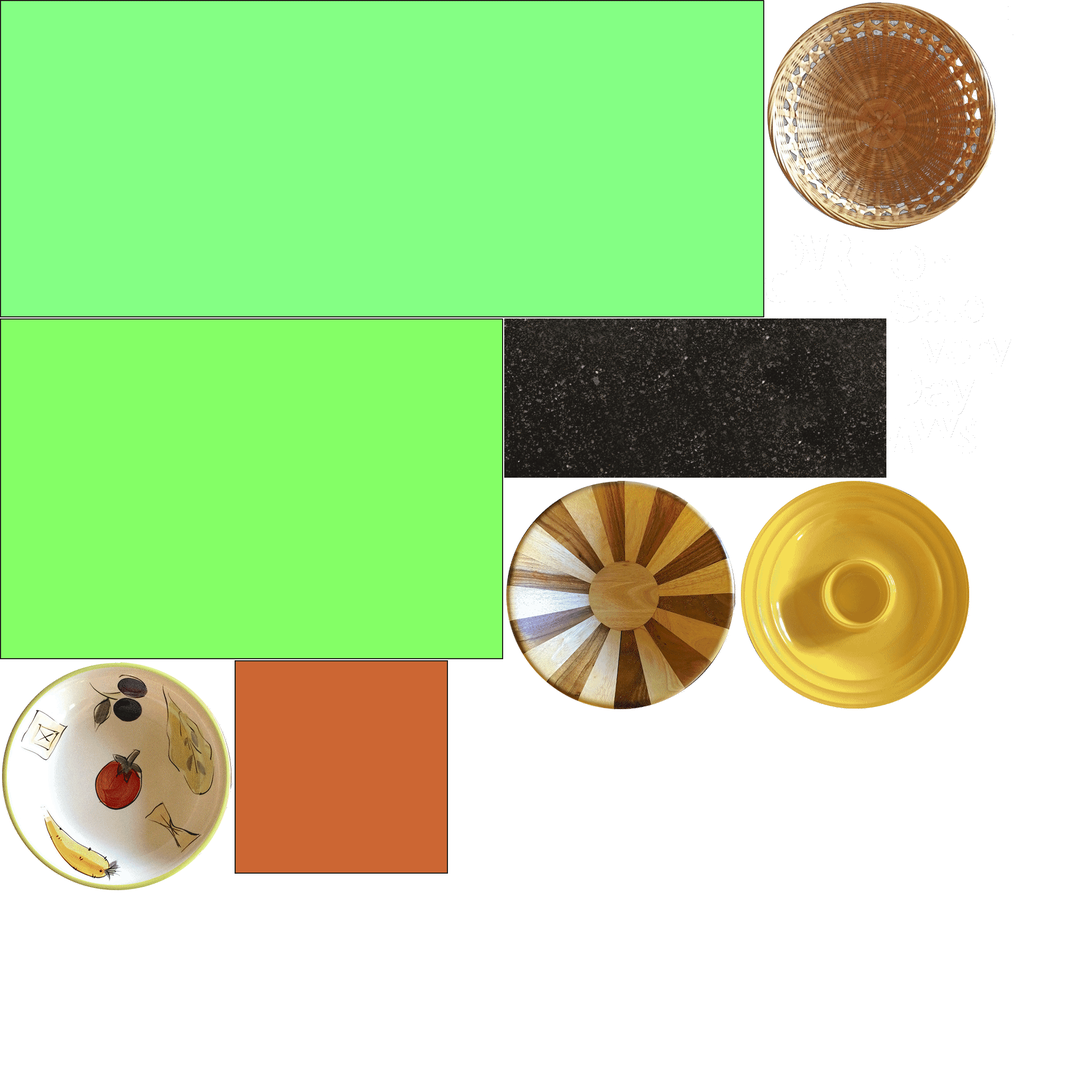
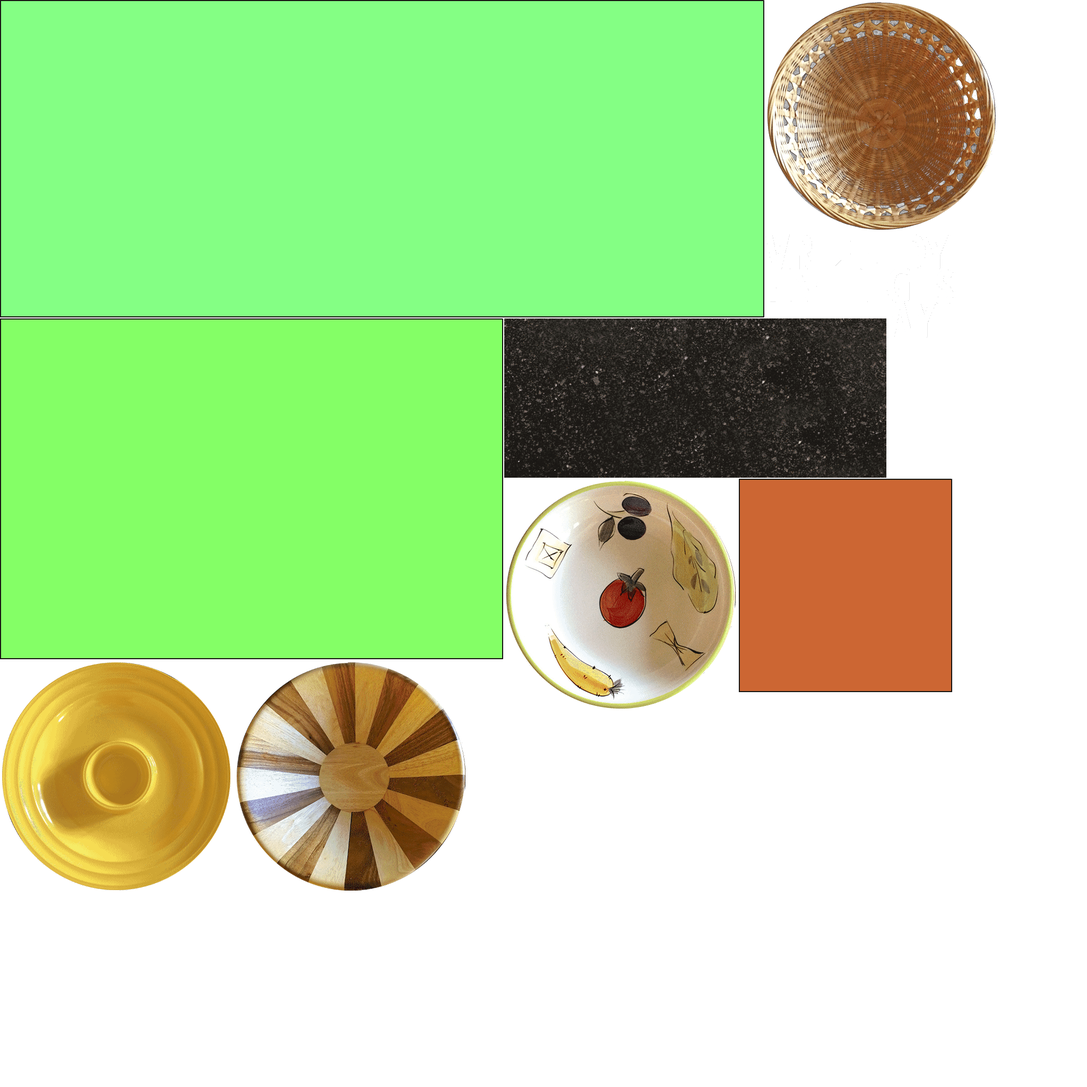
add call to action

diff --git a/everydaythings.js b/everydaythings.js
@@ -3,7 +3,7 @@
 var p; // shortcut to reference prototypes
 var lib={};var ss={};var img={};
 lib.ssMetadata = [
-		{name:"everydaythings_atlas_", frames: [[1442,0,440,440],[1672,442,266,344],[1672,788,47,64],[1807,788,31,65],[1563,569,2,1],[0,600,948,642],[0,0,1440,598],[442,1244,402,402],[1609,442,35,126],[1884,0,29,126],[1563,442,44,125],[1764,788,41,64],[1721,788,41,64],[1515,442,46,126],[1442,442,71,127],[0,1244,440,440],[950,600,720,300],[1392,902,440,440],[950,902,440,440]]}
+		{name:"everydaythings_atlas_", frames: [[1442,0,440,440],[1672,571,47,64],[1764,508,31,65],[1536,539,2,1],[0,600,948,642],[0,0,1440,598],[1392,902,402,402],[1536,442,48,95],[1586,442,35,126],[1623,442,29,126],[1490,442,44,125],[1745,442,41,64],[1721,571,41,64],[1442,442,46,126],[1672,442,71,127],[950,902,440,440],[950,600,720,300],[0,1244,440,440],[442,1244,440,440]]}
 ];
 
 
@@ -18,49 +18,49 @@ lib.ssMetadata = [
 
 
 
-(lib.CachedTexturedBitmap_1 = function() {
+(lib.CachedTexturedBitmap_10 = function() {
 	this.initialize(ss["everydaythings_atlas_"]);
 	this.gotoAndStop(1);
 }).prototype = p = new cjs.Sprite();
 
 
 
-(lib.CachedTexturedBitmap_10 = function() {
+(lib.CachedTexturedBitmap_11 = function() {
 	this.initialize(ss["everydaythings_atlas_"]);
 	this.gotoAndStop(2);
 }).prototype = p = new cjs.Sprite();
 
 
 
-(lib.CachedTexturedBitmap_11 = function() {
+(lib.CachedTexturedBitmap_12 = function() {
 	this.initialize(ss["everydaythings_atlas_"]);
 	this.gotoAndStop(3);
 }).prototype = p = new cjs.Sprite();
 
 
 
-(lib.CachedTexturedBitmap_12 = function() {
+(lib.CachedTexturedBitmap_13 = function() {
 	this.initialize(ss["everydaythings_atlas_"]);
 	this.gotoAndStop(4);
 }).prototype = p = new cjs.Sprite();
 
 
 
-(lib.CachedTexturedBitmap_13 = function() {
+(lib.CachedTexturedBitmap_14 = function() {
 	this.initialize(ss["everydaythings_atlas_"]);
 	this.gotoAndStop(5);
 }).prototype = p = new cjs.Sprite();
 
 
 
-(lib.CachedTexturedBitmap_14 = function() {
+(lib.CachedTexturedBitmap_15 = function() {
 	this.initialize(ss["everydaythings_atlas_"]);
 	this.gotoAndStop(6);
 }).prototype = p = new cjs.Sprite();
 
 
 
-(lib.CachedTexturedBitmap_2 = function() {
+(lib.CachedTexturedBitmap_16 = function() {
 	this.initialize(ss["everydaythings_atlas_"]);
 	this.gotoAndStop(7);
 }).prototype = p = new cjs.Sprite();
@@ -142,6 +142,20 @@ lib.ssMetadata = [
 	this.gotoAndStop(18);
 }).prototype = p = new cjs.Sprite();
 
+
+
+(lib.text_box = function(mode,startPosition,loop) {
+	this.initialize(mode,startPosition,loop,{});
+
+	// Layer_1
+	this.instance = new lib.CachedTexturedBitmap_15();
+	this.instance.parent = this;
+	this.instance.setTransform(-100.5,-100.5,0.5,0.5);
+
+	this.timeline.addTween(cjs.Tween.get(this.instance).wait(1));
+
+}).prototype = p = new cjs.MovieClip();
+p.nominalBounds = new cjs.Rectangle(-100.5,-100.5,201,201);
 
 
 (lib.products = function(mode,startPosition,loop) {
@@ -343,6 +357,22 @@ lib.ssMetadata = [
 p.nominalBounds = new cjs.Rectangle(-220,-220,441,314.6);
 
 
+(lib.headline = function(mode,startPosition,loop) {
+	this.initialize(mode,startPosition,loop,{});
+
+	// Layer_1
+	this.text = new cjs.Text("On\nSale\nEvery\nDay", "45px 'Impact'", "#FFFFFF");
+	this.text.lineHeight = 44;
+	this.text.lineWidth = 129;
+	this.text.parent = this;
+	this.text.setTransform(-64.5,-96);
+
+	this.timeline.addTween(cjs.Tween.get(this.text).wait(1));
+
+}).prototype = p = new cjs.MovieClip();
+p.nominalBounds = new cjs.Rectangle(-66.5,-98,133,196);
+
+
 (lib.everydaythings_logosvg = function(mode,startPosition,loop) {
 	this.initialize(mode,startPosition,loop,{});
 
@@ -393,6 +423,30 @@ p.nominalBounds = new cjs.Rectangle(-220,-220,441,314.6);
 p.nominalBounds = new cjs.Rectangle(0,0,157.5,63.6);
 
 
+(lib.cta = function(mode,startPosition,loop) {
+	this.initialize(mode,startPosition,loop,{});
+
+	// arrow
+	this.instance = new lib.CachedTexturedBitmap_16();
+	this.instance.parent = this;
+	this.instance.setTransform(45.05,-26.1,0.5,0.5);
+
+	this.timeline.addTween(cjs.Tween.get(this.instance).wait(1));
+
+	// text
+	this.text = new cjs.Text("SHOP\nNOW", "25px 'Impact'", "#FFFFFF");
+	this.text.textAlign = "right";
+	this.text.lineHeight = 25;
+	this.text.lineWidth = 74;
+	this.text.parent = this;
+	this.text.setTransform(37,-30.1);
+
+	this.timeline.addTween(cjs.Tween.get(this.text).wait(1));
+
+}).prototype = p = new cjs.MovieClip();
+p.nominalBounds = new cjs.Rectangle(-39,-32.1,108.1,64.2);
+
+
 (lib.button = function(mode,startPosition,loop) {
 	this.initialize(mode,startPosition,loop,{});
 
@@ -434,12 +488,12 @@ p.nominalBounds = new cjs.Rectangle(-220,-220,440,440);
 			window.open("http://www.google.com", "_blank");
 		}
 	}
-	this.frame_74 = function() {
+	this.frame_209 = function() {
 		this.stop();
 	}
 
 	// actions tween:
-	this.timeline.addTween(cjs.Tween.get(this).wait(46).call(this.frame_46).wait(28).call(this.frame_74).wait(6));
+	this.timeline.addTween(cjs.Tween.get(this).wait(46).call(this.frame_46).wait(163).call(this.frame_209).wait(6));
 
 	// Button
 	this.btn_main_link = new lib.button();
@@ -448,35 +502,43 @@ p.nominalBounds = new cjs.Rectangle(-220,-220,440,440);
 	this.btn_main_link.setTransform(360.5,150);
 	new cjs.ButtonHelper(this.btn_main_link, 0, 1, 2, false, new lib.button(), 3);
 
-	this.timeline.addTween(cjs.Tween.get(this.btn_main_link).wait(80));
+	this.timeline.addTween(cjs.Tween.get(this.btn_main_link).wait(215));
 
 	// Headline
-	this.instance = new lib.CachedTexturedBitmap_1();
+	this.instance = new lib.headline("synched",0);
 	this.instance.parent = this;
-	this.instance.setTransform(551,4.3,0.5,0.5);
+	this.instance.setTransform(645,-97.7);
 
-	this.timeline.addTween(cjs.Tween.get(this.instance).wait(80));
+	this.timeline.addTween(cjs.Tween.get(this.instance).wait(92).to({startPosition:0},0).to({y:102.3},20,cjs.Ease.get(1)).wait(103));
 
 	// Products
 	this.instance_1 = new lib.products();
 	this.instance_1.parent = this;
 	this.instance_1.setTransform(348,245);
 
-	this.timeline.addTween(cjs.Tween.get(this.instance_1).wait(80));
+	this.timeline.addTween(cjs.Tween.get(this.instance_1).wait(215));
+
+	// cta
+	this.instance_2 = new lib.cta("synched",0);
+	this.instance_2.parent = this;
+	this.instance_2.setTransform(464,242.95);
+	this.instance_2._off = true;
+
+	this.timeline.addTween(cjs.Tween.get(this.instance_2).wait(186).to({_off:false},0).to({x:624},19,cjs.Ease.get(1)).wait(10));
 
 	// Basket
-	this.instance_2 = new lib.basket_1("synched",0);
-	this.instance_2.parent = this;
-	this.instance_2.setTransform(-242.5,257.05,0.9999,0.9999,-135,0,0,-2.6,11.9);
+	this.instance_3 = new lib.basket_1("synched",0);
+	this.instance_3.parent = this;
+	this.instance_3.setTransform(-242.5,257.05,0.9999,0.9999,-135,0,0,-2.6,11.9);
 
-	this.timeline.addTween(cjs.Tween.get(this.instance_2).wait(1).to({regX:0,regY:0,rotation:-128.1581,x:-223.6926,y:262.3338},0).wait(1).to({rotation:-121.4939,x:-195.2399,y:261.0278},0).wait(1).to({rotation:-115.0074,x:-167.3967,y:259.7046},0).wait(1).to({rotation:-108.6986,x:-140.1704,y:258.3846},0).wait(1).to({rotation:-102.5676,x:-113.5706,y:257.086},0).wait(1).to({rotation:-96.6142,x:-87.6085,y:255.8244},0).wait(1).to({rotation:-90.8386,x:-62.2965,y:254.6128},0).wait(1).to({rotation:-85.2407,x:-37.6476,y:253.4619},0).wait(1).to({rotation:-79.8205,x:-13.6753,y:252.38},0).wait(1).to({rotation:-74.578,x:9.6067,y:251.3731},0).wait(1).to({rotation:-69.5132,x:32.1852,y:250.4453},0).wait(1).to({rotation:-64.6261,x:54.0473,y:249.5988},0).wait(1).to({rotation:-59.9167,x:75.1807,y:248.8343},0).wait(1).to({rotation:-55.3851,x:95.574,y:248.151},0).wait(1).to({scaleX:0.9998,scaleY:0.9998,rotation:-51.0312,x:115.2166,y:247.5468},0).wait(1).to({rotation:-46.8549,x:134.0989,y:247.0188},0).wait(1).to({rotation:-42.8564,x:152.212,y:246.5632},0).wait(1).to({rotation:-39.0356,x:169.5482,y:246.1755},0).wait(1).to({rotation:-35.3925,x:186.1009,y:245.8508},0).wait(1).to({rotation:-31.9271,x:201.864,y:245.584},0).wait(1).to({rotation:-28.6395,x:216.8326,y:245.3697},0).wait(1).to({rotation:-25.5295,x:231.0025,y:245.2023},0).wait(1).to({rotation:-22.5973,x:244.3702,y:245.0765},0).wait(1).to({rotation:-19.8427,x:256.933,y:244.9869},0).wait(1).to({rotation:-17.2659,x:268.6886,y:244.9283},0).wait(1).to({rotation:-14.8668,x:279.6354,y:244.8958},0).wait(1).to({rotation:-12.6454,x:289.7722,y:244.8848},0).wait(1).to({rotation:-10.6017,x:299.0981,y:244.8907},0).wait(1).to({rotation:-8.7357,x:307.6127,y:244.9097},0).wait(1).to({rotation:-7.0475,x:315.3158,y:244.938},0).wait(1).to({rotation:-5.5369,x:322.2071,y:244.9723},0).wait(1).to({rotation:-4.2041,x:328.2869,y:245.0095},0).wait(1).to({regX:-2.6,regY:12,rotation:-3.049,x:331.55,y:257.1},0).wait(1).to({regX:0,regY:0,scaleX:0.9999,scaleY:0.9999,rotation:-2.1173,x:337.9465,y:244.9615},0).wait(1).to({rotation:-1.3551,x:341.5841,y:244.9735},0).wait(1).to({rotation:-0.7622,x:344.4131,y:244.9842},0).wait(1).to({scaleX:1,scaleY:1,rotation:-0.3388,x:346.4336,y:244.9927},0).wait(1).to({rotation:-0.0847,x:347.6459,y:244.9981},0).wait(1).to({regX:-2.5,regY:12,rotation:0,x:345.5,y:257},0).wait(1).to({regX:0,regY:0,x:348,y:245},0).wait(1).to({startPosition:0},0).wait(1).to({startPosition:0},0).wait(1).to({startPosition:0},0).wait(1).to({startPosition:0},0).wait(1).to({startPosition:0},0).wait(1).to({startPosition:0},0).wait(1).to({startPosition:0},0).wait(1).to({startPosition:0},0).wait(1).to({startPosition:0},0).wait(1).to({startPosition:0},0).wait(1).to({startPosition:0},0).wait(1).to({startPosition:0},0).wait(1).to({startPosition:0},0).wait(1).to({startPosition:0},0).wait(1).to({startPosition:0},0).wait(1).to({startPosition:0},0).wait(1).to({startPosition:0},0).wait(1).to({startPosition:0},0).wait(1).to({startPosition:0},0).wait(1).to({startPosition:0},0).wait(1).to({startPosition:0},0).wait(1).to({startPosition:0},0).wait(1).to({startPosition:0},0).wait(1).to({startPosition:0},0).wait(1).to({startPosition:0},0).wait(1).to({startPosition:0},0).wait(1).to({startPosition:0},0).wait(1).to({startPosition:0},0).wait(1).to({startPosition:0},0).wait(1).to({startPosition:0},0).wait(1).to({startPosition:0},0).wait(1).to({startPosition:0},0).wait(1).to({startPosition:0},0).wait(1).to({regX:-2.5,regY:12,x:345.5,y:257},0).to({startPosition:0},1).wait(5));
+	this.timeline.addTween(cjs.Tween.get(this.instance_3).wait(1).to({regX:0,regY:0,rotation:-128.1581,x:-223.6926,y:262.3338},0).wait(1).to({rotation:-121.4939,x:-195.2399,y:261.0278},0).wait(1).to({rotation:-115.0074,x:-167.3967,y:259.7046},0).wait(1).to({rotation:-108.6986,x:-140.1704,y:258.3846},0).wait(1).to({rotation:-102.5676,x:-113.5706,y:257.086},0).wait(1).to({rotation:-96.6142,x:-87.6085,y:255.8244},0).wait(1).to({rotation:-90.8386,x:-62.2965,y:254.6128},0).wait(1).to({rotation:-85.2407,x:-37.6476,y:253.4619},0).wait(1).to({rotation:-79.8205,x:-13.6753,y:252.38},0).wait(1).to({rotation:-74.578,x:9.6067,y:251.3731},0).wait(1).to({rotation:-69.5132,x:32.1852,y:250.4453},0).wait(1).to({rotation:-64.6261,x:54.0473,y:249.5988},0).wait(1).to({rotation:-59.9167,x:75.1807,y:248.8343},0).wait(1).to({rotation:-55.3851,x:95.574,y:248.151},0).wait(1).to({scaleX:0.9998,scaleY:0.9998,rotation:-51.0312,x:115.2166,y:247.5468},0).wait(1).to({rotation:-46.8549,x:134.0989,y:247.0188},0).wait(1).to({rotation:-42.8564,x:152.212,y:246.5632},0).wait(1).to({rotation:-39.0356,x:169.5482,y:246.1755},0).wait(1).to({rotation:-35.3925,x:186.1009,y:245.8508},0).wait(1).to({rotation:-31.9271,x:201.864,y:245.584},0).wait(1).to({rotation:-28.6395,x:216.8326,y:245.3697},0).wait(1).to({rotation:-25.5295,x:231.0025,y:245.2023},0).wait(1).to({rotation:-22.5973,x:244.3702,y:245.0765},0).wait(1).to({rotation:-19.8427,x:256.933,y:244.9869},0).wait(1).to({rotation:-17.2659,x:268.6886,y:244.9283},0).wait(1).to({rotation:-14.8668,x:279.6354,y:244.8958},0).wait(1).to({rotation:-12.6454,x:289.7722,y:244.8848},0).wait(1).to({rotation:-10.6017,x:299.0981,y:244.8907},0).wait(1).to({rotation:-8.7357,x:307.6127,y:244.9097},0).wait(1).to({rotation:-7.0475,x:315.3158,y:244.938},0).wait(1).to({rotation:-5.5369,x:322.2071,y:244.9723},0).wait(1).to({rotation:-4.2041,x:328.2869,y:245.0095},0).wait(1).to({regX:-2.6,regY:12,rotation:-3.049,x:331.55,y:257.1},0).wait(1).to({regX:0,regY:0,scaleX:0.9999,scaleY:0.9999,rotation:-2.1173,x:337.9465,y:244.9615},0).wait(1).to({rotation:-1.3551,x:341.5841,y:244.9735},0).wait(1).to({rotation:-0.7622,x:344.4131,y:244.9842},0).wait(1).to({scaleX:1,scaleY:1,rotation:-0.3388,x:346.4336,y:244.9927},0).wait(1).to({rotation:-0.0847,x:347.6459,y:244.9981},0).wait(1).to({regX:-2.5,regY:12,rotation:0,x:345.5,y:257},0).wait(1).to({regX:0,regY:0,x:348,y:245},0).wait(1).to({startPosition:0},0).wait(1).to({startPosition:0},0).wait(1).to({startPosition:0},0).wait(1).to({startPosition:0},0).wait(1).to({startPosition:0},0).wait(1).to({startPosition:0},0).wait(1).to({startPosition:0},0).wait(1).to({startPosition:0},0).wait(1).to({startPosition:0},0).wait(1).to({startPosition:0},0).wait(1).to({startPosition:0},0).wait(1).to({startPosition:0},0).wait(1).to({startPosition:0},0).wait(1).to({startPosition:0},0).wait(1).to({startPosition:0},0).wait(1).to({startPosition:0},0).wait(1).to({startPosition:0},0).wait(1).to({startPosition:0},0).wait(1).to({startPosition:0},0).wait(1).to({startPosition:0},0).wait(1).to({startPosition:0},0).wait(1).to({startPosition:0},0).wait(1).to({startPosition:0},0).wait(1).to({startPosition:0},0).wait(1).to({startPosition:0},0).wait(1).to({startPosition:0},0).wait(1).to({startPosition:0},0).wait(1).to({startPosition:0},0).wait(1).to({startPosition:0},0).wait(1).to({startPosition:0},0).wait(1).to({startPosition:0},0).wait(1).to({startPosition:0},0).wait(1).to({startPosition:0},0).wait(1).to({startPosition:0},0).wait(1).to({startPosition:0},0).wait(1).to({startPosition:0},0).wait(1).to({startPosition:0},0).wait(1).to({startPosition:0},0).wait(1).to({startPosition:0},0).wait(1).to({startPosition:0},0).wait(1).to({startPosition:0},0).wait(1).to({startPosition:0},0).wait(1).to({startPosition:0},0).wait(1).to({startPosition:0},0).wait(1).to({startPosition:0},0).wait(1).to({startPosition:0},0).wait(1).to({startPosition:0},0).wait(1).to({startPosition:0},0).wait(1).to({startPosition:0},0).wait(1).to({startPosition:0},0).wait(1).to({startPosition:0},0).wait(1).to({startPosition:0},0).wait(1).to({startPosition:0},0).wait(1).to({startPosition:0},0).wait(1).to({startPosition:0},0).wait(1).to({startPosition:0},0).wait(1).to({startPosition:0},0).wait(1).to({startPosition:0},0).wait(1).to({startPosition:0},0).wait(1).to({startPosition:0},0).wait(1).to({startPosition:0},0).wait(1).to({startPosition:0},0).wait(1).to({startPosition:0},0).wait(1).to({startPosition:0},0).wait(1).to({startPosition:0},0).wait(1).to({startPosition:0},0).wait(1).to({startPosition:0},0).wait(1).to({startPosition:0},0).wait(1).to({startPosition:0},0).wait(1).to({startPosition:0},0).wait(1).to({startPosition:0},0).wait(1).to({startPosition:0},0).wait(1).to({startPosition:0},0).wait(1).to({regX:-2.5,regY:12,x:345.5,y:257},0).to({startPosition:0},1).wait(100));
 
 	// Text_Box
-	this.instance_3 = new lib.CachedTexturedBitmap_2();
-	this.instance_3.parent = this;
-	this.instance_3.setTransform(519.5,-0.5,0.5,0.5);
+	this.instance_4 = new lib.text_box("synched",0);
+	this.instance_4.parent = this;
+	this.instance_4.setTransform(830,100);
 
-	this.timeline.addTween(cjs.Tween.get(this.instance_3).wait(80));
+	this.timeline.addTween(cjs.Tween.get(this.instance_4).wait(27).to({startPosition:0},0).to({x:620},20,cjs.Ease.get(1)).wait(168));
 
 	// logo_mask (mask)
 	var mask = new cjs.Shape();
@@ -561,27 +623,162 @@ p.nominalBounds = new cjs.Rectangle(-220,-220,440,440);
[138 lines of base64/hex data omitted]
 
-	this.timeline.addTween(cjs.Tween.get(mask).to({graphics:mask_graphics_0,x:-325.7501,y:255.7251}).wait(1).to({graphics:mask_graphics_1,x:-295.7,y:254.7252}).wait(1).to({graphics:mask_graphics_2,x:-266.4,y:253.7253}).wait(1).to({graphics:mask_graphics_3,x:-237.8997,y:252.7749}).wait(1).to({graphics:mask_graphics_4,x:-210.15,y:251.8254}).wait(1).to({graphics:mask_graphics_5,x:-183.2,y:250.9254}).wait(1).to({graphics:mask_graphics_6,x:-157.05,y:250.0254}).wait(1).to({graphics:mask_graphics_7,x:-131.6502,y:249.1749}).wait(1).to({graphics:mask_graphics_8,x:-107.0501,y:248.3748}).wait(1).to({graphics:mask_graphics_9,x:-83.2001,y:247.5747}).wait(1).to({graphics:mask_graphics_10,x:-60.2001,y:246.7746}).wait(1).to({graphics:mask_graphics_11,x:-37.8999,y:246.0249}).wait(1).to({graphics:mask_graphics_12,x:-16.4502,y:245.3247}).wait(1).to({graphics:mask_graphics_13,x:4.2498,y:244.6254}).wait(1).to({graphics:mask_graphics_14,x:24.1497,y:243.9252}).wait(1).to({graphics:mask_graphics_15,x:43.2999,y:243.2754}).wait(1).to({graphics:mask_graphics_16,x:61.65,y:242.6751}).wait(1).to({graphics:mask_graphics_17,x:79.2499,y:242.0748}).wait(1).to({graphics:mask_graphics_18,x:96.0003,y:241.5249}).wait(1).to({graphics:mask_graphics_19,x:112.05,y:240.975}).wait(1).to({graphics:mask_graphics_20,x:127.2501,y:240.4746}).wait(1).to({graphics:mask_graphics_21,x:141.7,y:239.9751}).wait(1).to({graphics:mask_graphics_22,x:155.4003,y:239.5251}).wait(1).to({graphics:mask_graphics_23,x:168.25,y:239.0751}).wait(1).to({graphics:mask_graphics_24,x:180.4,y:238.6746}).wait(1).to({graphics:mask_graphics_25,x:191.7,y:238.3254}).wait(1).to({graphics:mask_graphics_26,x:202.2498,y:237.9249}).wait(1).to({graphics:mask_graphics_27,x:211.9999,y:237.6252}).wait(1).to({graphics:mask_graphics_28,x:220.9999,y:237.3246}).wait(1).to({graphics:mask_graphics_29,x:229.2003,y:237.0249}).wait(1).to({graphics:mask_graphics_30,x:236.6001,y:236.7747}).wait(1).to({graphics:mask_graphics_31,x:243.2502,y:236.5749}).wait(1).to({graphics:mask_graphics_32,x:249.1002,y:236.3751}).wait(1).to({graphics:mask_graphics_33,x:254.2,y:236.1753}).wait(1).to({graphics:mask_graphics_34,x:258.4998,y:236.0754}).wait(1).to({graphics:mask_graphics_35,x:261.9999,y:235.9251}).wait(1).to({graphics:mask_graphics_36,x:264.7503,y:235.8252}).wait(1).to({graphics:mask_graphics_37,x:266.6997,y:235.7748}).wait(1).to({graphics:mask_graphics_38,x:267.8499,y:235.7253}).wait(1).to({graphics:mask_graphics_39,x:268.2499,y:235.7253}).wait(1).to({graphics:mask_graphics_40,x:268.2499,y:235.7253}).wait(1).to({graphics:mask_graphics_41,x:268.2499,y:235.7253}).wait(1).to({graphics:mask_graphics_42,x:268.2499,y:235.7253}).wait(1).to({graphics:mask_graphics_43,x:268.2499,y:235.7253}).wait(1).to({graphics:mask_graphics_44,x:268.2499,y:235.7253}).wait(1).to({graphics:mask_graphics_45,x:268.2499,y:235.7253}).wait(1).to({graphics:mask_graphics_46,x:268.2499,y:235.7253}).wait(1).to({graphics:mask_graphics_47,x:268.2499,y:235.7253}).wait(1).to({graphics:mask_graphics_48,x:268.2499,y:235.7253}).wait(1).to({graphics:mask_graphics_49,x:268.2499,y:235.7253}).wait(1).to({graphics:mask_graphics_50,x:268.2499,y:235.7253}).wait(1).to({graphics:mask_graphics_51,x:268.2499,y:235.7253}).wait(1).to({graphics:mask_graphics_52,x:268.2499,y:235.7253}).wait(1).to({graphics:mask_graphics_53,x:268.2499,y:235.7253}).wait(1).to({graphics:mask_graphics_54,x:268.2499,y:235.7253}).wait(1).to({graphics:mask_graphics_55,x:268.2499,y:235.7253}).wait(1).to({graphics:mask_graphics_56,x:268.2499,y:235.7253}).wait(1).to({graphics:mask_graphics_57,x:268.2499,y:235.7253}).wait(1).to({graphics:mask_graphics_58,x:268.2499,y:235.7253}).wait(1).to({graphics:mask_graphics_59,x:268.2499,y:235.7253}).wait(1).to({graphics:mask_graphics_60,x:268.2499,y:235.7253}).wait(1).to({graphics:mask_graphics_61,x:268.2499,y:235.7253}).wait(1).to({graphics:mask_graphics_62,x:268.2499,y:235.7253}).wait(1).to({graphics:mask_graphics_63,x:268.2499,y:235.7253}).wait(1).to({graphics:mask_graphics_64,x:268.2499,y:235.7253}).wait(1).to({graphics:mask_graphics_65,x:268.2499,y:235.7253}).wait(1).to({graphics:mask_graphics_66,x:268.2499,y:235.7253}).wait(1).to({graphics:mask_graphics_67,x:268.2499,y:235.7253}).wait(1).to({graphics:mask_graphics_68,x:268.2499,y:235.7253}).wait(1).to({graphics:mask_graphics_69,x:268.2499,y:235.7253}).wait(1).to({graphics:mask_graphics_70,x:268.2499,y:235.7253}).wait(1).to({graphics:mask_graphics_71,x:268.2499,y:235.7253}).wait(1).to({graphics:mask_graphics_72,x:268.2499,y:235.7253}).wait(1).to({graphics:mask_graphics_73,x:268.2499,y:235.7253}).wait(1).to({graphics:mask_graphics_74,x:268.2499,y:235.7253}).wait(1).to({graphics:mask_graphics_75,x:268.2499,y:235.7253}).wait(1).to({graphics:mask_graphics_76,x:268.2499,y:235.7253}).wait(1).to({graphics:mask_graphics_77,x:268.2499,y:235.7253}).wait(1).to({graphics:mask_graphics_78,x:268.2499,y:235.7253}).wait(1).to({graphics:mask_graphics_79,x:268.2499,y:235.7253}).wait(1));
+	this.timeline.addTween(cjs.Tween.get(mask).to({graphics:mask_graphics_0,x:-325.7501,y:255.7251}).wait(1).to({graphics:mask_graphics_1,x:-295.7,y:254.7252}).wait(1).to({graphics:mask_graphics_2,x:-266.4,y:253.7253}).wait(1).to({graphics:mask_graphics_3,x:-237.8997,y:252.7749}).wait(1).to({graphics:mask_graphics_4,x:-210.15,y:251.8254}).wait(1).to({graphics:mask_graphics_5,x:-183.2,y:250.9254}).wait(1).to({graphics:mask_graphics_6,x:-157.05,y:250.0254}).wait(1).to({graphics:mask_graphics_7,x:-131.6502,y:249.1749}).wait(1).to({graphics:mask_graphics_8,x:-107.0501,y:248.3748}).wait(1).to({graphics:mask_graphics_9,x:-83.2001,y:247.5747}).wait(1).to({graphics:mask_graphics_10,x:-60.2001,y:246.7746}).wait(1).to({graphics:mask_graphics_11,x:-37.8999,y:246.0249}).wait(1).to({graphics:mask_graphics_12,x:-16.4502,y:245.3247}).wait(1).to({graphics:mask_graphics_13,x:4.2498,y:244.6254}).wait(1).to({graphics:mask_graphics_14,x:24.1497,y:243.9252}).wait(1).to({graphics:mask_graphics_15,x:43.2999,y:243.2754}).wait(1).to({graphics:mask_graphics_16,x:61.65,y:242.6751}).wait(1).to({graphics:mask_graphics_17,x:79.2499,y:242.0748}).wait(1).to({graphics:mask_graphics_18,x:96.0003,y:241.5249}).wait(1).to({graphics:mask_graphics_19,x:112.05,y:240.975}).wait(1).to({graphics:mask_graphics_20,x:127.2501,y:240.4746}).wait(1).to({graphics:mask_graphics_21,x:141.7,y:239.9751}).wait(1).to({graphics:mask_graphics_22,x:155.4003,y:239.5251}).wait(1).to({graphics:mask_graphics_23,x:168.25,y:239.0751}).wait(1).to({graphics:mask_graphics_24,x:180.4,y:238.6746}).wait(1).to({graphics:mask_graphics_25,x:191.7,y:238.3254}).wait(1).to({graphics:mask_graphics_26,x:202.2498,y:237.9249}).wait(1).to({graphics:mask_graphics_27,x:211.9999,y:237.6252}).wait(1).to({graphics:mask_graphics_28,x:220.9999,y:237.3246}).wait(1).to({graphics:mask_graphics_29,x:229.2003,y:237.0249}).wait(1).to({graphics:mask_graphics_30,x:236.6001,y:236.7747}).wait(1).to({graphics:mask_graphics_31,x:243.2502,y:236.5749}).wait(1).to({graphics:mask_graphics_32,x:249.1002,y:236.3751}).wait(1).to({graphics:mask_graphics_33,x:254.2,y:236.1753}).wait(1).to({graphics:mask_graphics_34,x:258.4998,y:236.0754}).wait(1).to({graphics:mask_graphics_35,x:261.9999,y:235.9251}).wait(1).to({graphics:mask_graphics_36,x:264.7503,y:235.8252}).wait(1).to({graphics:mask_graphics_37,x:266.6997,y:235.7748}).wait(1).to({graphics:mask_graphics_38,x:267.8499,y:235.7253}).wait(1).to({graphics:mask_graphics_39,x:268.2499,y:235.7253}).wait(1).to({graphics:mask_graphics_40,x:268.2499,y:235.7253}).wait(1).to({graphics:mask_graphics_41,x:268.2499,y:235.7253}).wait(1).to({graphics:mask_graphics_42,x:268.2499,y:235.7253}).wait(1).to({graphics:mask_graphics_43,x:268.2499,y:235.7253}).wait(1).to({graphics:mask_graphics_44,x:268.2499,y:235.7253}).wait(1).to({graphics:mask_graphics_45,x:268.2499,y:235.7253}).wait(1).to({graphics:mask_graphics_46,x:268.2499,y:235.7253}).wait(1).to({graphics:mask_graphics_47,x:268.2499,y:235.7253}).wait(1).to({graphics:mask_graphics_48,x:268.2499,y:235.7253}).wait(1).to({graphics:mask_graphics_49,x:268.2499,y:235.7253}).wait(1).to({graphics:mask_graphics_50,x:268.2499,y:235.7253}).wait(1).to({graphics:mask_graphics_51,x:268.2499,y:235.7253}).wait(1).to({graphics:mask_graphics_52,x:268.2499,y:235.7253}).wait(1).to({graphics:mask_graphics_53,x:268.2499,y:235.7253}).wait(1).to({graphics:mask_graphics_54,x:268.2499,y:235.7253}).wait(1).to({graphics:mask_graphics_55,x:268.2499,y:235.7253}).wait(1).to({graphics:mask_graphics_56,x:268.2499,y:235.7253}).wait(1).to({graphics:mask_graphics_57,x:268.2499,y:235.7253}).wait(1).to({graphics:mask_graphics_58,x:268.2499,y:235.7253}).wait(1).to({graphics:mask_graphics_59,x:268.2499,y:235.7253}).wait(1).to({graphics:mask_graphics_60,x:268.2499,y:235.7253}).wait(1).to({graphics:mask_graphics_61,x:268.2499,y:235.7253}).wait(1).to({graphics:mask_graphics_62,x:268.2499,y:235.7253}).wait(1).to({graphics:mask_graphics_63,x:268.2499,y:235.7253}).wait(1).to({graphics:mask_graphics_64,x:268.2499,y:235.7253}).wait(1).to({graphics:mask_graphics_65,x:268.2499,y:235.7253}).wait(1).to({graphics:mask_graphics_66,x:268.2499,y:235.7253}).wait(1).to({graphics:mask_graphics_67,x:268.2499,y:235.7253}).wait(1).to({graphics:mask_graphics_68,x:268.2499,y:235.7253}).wait(1).to({graphics:mask_graphics_69,x:268.2499,y:235.7253}).wait(1).to({graphics:mask_graphics_70,x:268.2499,y:235.7253}).wait(1).to({graphics:mask_graphics_71,x:268.2499,y:235.7253}).wait(1).to({graphics:mask_graphics_72,x:268.2499,y:235.7253}).wait(1).to({graphics:mask_graphics_73,x:268.2499,y:235.7253}).wait(1).to({graphics:mask_graphics_74,x:268.2499,y:235.7253}).wait(1).to({graphics:mask_graphics_75,x:268.2499,y:235.7253}).wait(1).to({graphics:mask_graphics_76,x:268.2499,y:235.7253}).wait(1).to({graphics:mask_graphics_77,x:268.2499,y:235.7253}).wait(1).to({graphics:mask_graphics_78,x:268.2499,y:235.7253}).wait(1).to({graphics:mask_graphics_79,x:268.2499,y:235.7253}).wait(1).to({graphics:mask_graphics_80,x:268.2499,y:235.7253}).wait(1).to({graphics:mask_graphics_81,x:268.2499,y:235.7253}).wait(1).to({graphics:mask_graphics_82,x:268.2499,y:235.7253}).wait(1).to({graphics:mask_graphics_83,x:268.2499,y:235.7253}).wait(1).to({graphics:mask_graphics_84,x:268.2499,y:235.7253}).wait(1).to({graphics:mask_graphics_85,x:268.2499,y:235.7253}).wait(1).to({graphics:mask_graphics_86,x:268.2499,y:235.7253}).wait(1).to({graphics:mask_graphics_87,x:268.2499,y:235.7253}).wait(1).to({graphics:mask_graphics_88,x:268.2499,y:235.7253}).wait(1).to({graphics:mask_graphics_89,x:268.2499,y:235.7253}).wait(1).to({graphics:mask_graphics_90,x:268.2499,y:235.7253}).wait(1).to({graphics:mask_graphics_91,x:268.2499,y:235.7253}).wait(1).to({graphics:mask_graphics_92,x:268.2499,y:235.7253}).wait(1).to({graphics:mask_graphics_93,x:268.2499,y:235.7253}).wait(1).to({graphics:mask_graphics_94,x:268.2499,y:235.7253}).wait(1).to({graphics:mask_graphics_95,x:268.2499,y:235.7253}).wait(1).to({graphics:mask_graphics_96,x:268.2499,y:235.7253}).wait(1).to({graphics:mask_graphics_97,x:268.2499,y:235.7253}).wait(1).to({graphics:mask_graphics_98,x:268.2499,y:235.7253}).wait(1).to({graphics:mask_graphics_99,x:268.2499,y:235.7253}).wait(1).to({graphics:mask_graphics_100,x:268.2499,y:235.7253}).wait(1).to({graphics:mask_graphics_101,x:268.2499,y:235.7253}).wait(1).to({graphics:mask_graphics_102,x:268.2499,y:235.7253}).wait(1).to({graphics:mask_graphics_103,x:268.2499,y:235.7253}).wait(1).to({graphics:mask_graphics_104,x:268.2499,y:235.7253}).wait(1).to({graphics:mask_graphics_105,x:268.2499,y:235.7253}).wait(1).to({graphics:mask_graphics_106,x:268.2499,y:235.7253}).wait(1).to({graphics:mask_graphics_107,x:268.2499,y:235.7253}).wait(1).to({graphics:mask_graphics_108,x:268.2499,y:235.7253}).wait(1).to({graphics:mask_graphics_109,x:268.2499,y:235.7253}).wait(1).to({graphics:mask_graphics_110,x:268.2499,y:235.7253}).wait(1).to({graphics:mask_graphics_111,x:268.2499,y:235.7253}).wait(1).to({graphics:mask_graphics_112,x:268.2499,y:235.7253}).wait(1).to({graphics:mask_graphics_113,x:268.2499,y:235.7253}).wait(1).to({graphics:mask_graphics_114,x:268.2499,y:235.7253}).wait(1).to({graphics:mask_graphics_115,x:268.2499,y:235.7253}).wait(1).to({graphics:mask_graphics_116,x:268.2499,y:235.7253}).wait(1).to({graphics:mask_graphics_117,x:268.2499,y:235.7253}).wait(1).to({graphics:mask_graphics_118,x:268.2499,y:235.7253}).wait(1).to({graphics:mask_graphics_119,x:268.2499,y:235.7253}).wait(1).to({graphics:mask_graphics_120,x:268.2499,y:235.7253}).wait(1).to({graphics:mask_graphics_121,x:268.2499,y:235.7253}).wait(1).to({graphics:mask_graphics_122,x:268.2499,y:235.7253}).wait(1).to({graphics:mask_graphics_123,x:268.2499,y:235.7253}).wait(1).to({graphics:mask_graphics_124,x:268.2499,y:235.7253}).wait(1).to({graphics:mask_graphics_125,x:268.2499,y:235.7253}).wait(1).to({graphics:mask_graphics_126,x:268.2499,y:235.7253}).wait(1).to({graphics:mask_graphics_127,x:268.2499,y:235.7253}).wait(1).to({graphics:mask_graphics_128,x:268.2499,y:235.7253}).wait(1).to({graphics:mask_graphics_129,x:268.2499,y:235.7253}).wait(1).to({graphics:mask_graphics_130,x:268.2499,y:235.7253}).wait(1).to({graphics:mask_graphics_131,x:268.2499,y:235.7253}).wait(1).to({graphics:mask_graphics_132,x:268.2499,y:235.7253}).wait(1).to({graphics:mask_graphics_133,x:268.2499,y:235.7253}).wait(1).to({graphics:mask_graphics_134,x:268.2499,y:235.7253}).wait(1).to({graphics:mask_graphics_135,x:268.2499,y:235.7253}).wait(1).to({graphics:mask_graphics_136,x:268.2499,y:235.7253}).wait(1).to({graphics:mask_graphics_137,x:268.2499,y:235.7253}).wait(1).to({graphics:mask_graphics_138,x:268.2499,y:235.7253}).wait(1).to({graphics:mask_graphics_139,x:268.2499,y:235.7253}).wait(1).to({graphics:mask_graphics_140,x:268.2499,y:235.7253}).wait(1).to({graphics:mask_graphics_141,x:268.2499,y:235.7253}).wait(1).to({graphics:mask_graphics_142,x:268.2499,y:235.7253}).wait(1).to({graphics:mask_graphics_143,x:268.2499,y:235.7253}).wait(1).to({graphics:mask_graphics_144,x:268.2499,y:235.7253}).wait(1).to({graphics:mask_graphics_145,x:268.2499,y:235.7253}).wait(1).to({graphics:mask_graphics_146,x:268.2499,y:235.7253}).wait(1).to({graphics:mask_graphics_147,x:268.2499,y:235.7253}).wait(1).to({graphics:mask_graphics_148,x:268.2499,y:235.7253}).wait(1).to({graphics:mask_graphics_149,x:268.2499,y:235.7253}).wait(1).to({graphics:mask_graphics_150,x:268.2499,y:235.7253}).wait(1).to({graphics:mask_graphics_151,x:268.2499,y:235.7253}).wait(1).to({graphics:mask_graphics_152,x:268.2499,y:235.7253}).wait(1).to({graphics:mask_graphics_153,x:268.2499,y:235.7253}).wait(1).to({graphics:mask_graphics_154,x:268.2499,y:235.7253}).wait(1).to({graphics:mask_graphics_155,x:268.2499,y:235.7253}).wait(1).to({graphics:mask_graphics_156,x:268.2499,y:235.7253}).wait(1).to({graphics:mask_graphics_157,x:268.2499,y:235.7253}).wait(1).to({graphics:mask_graphics_158,x:268.2499,y:235.7253}).wait(1).to({graphics:mask_graphics_159,x:268.2499,y:235.7253}).wait(1).to({graphics:mask_graphics_160,x:268.2499,y:235.7253}).wait(1).to({graphics:mask_graphics_161,x:268.2499,y:235.7253}).wait(1).to({graphics:mask_graphics_162,x:268.2499,y:235.7253}).wait(1).to({graphics:mask_graphics_163,x:268.2499,y:235.7253}).wait(1).to({graphics:mask_graphics_164,x:268.2499,y:235.7253}).wait(1).to({graphics:mask_graphics_165,x:268.2499,y:235.7253}).wait(1).to({graphics:mask_graphics_166,x:268.2499,y:235.7253}).wait(1).to({graphics:mask_graphics_167,x:268.2499,y:235.7253}).wait(1).to({graphics:mask_graphics_168,x:268.2499,y:235.7253}).wait(1).to({graphics:mask_graphics_169,x:268.2499,y:235.7253}).wait(1).to({graphics:mask_graphics_170,x:268.2499,y:235.7253}).wait(1).to({graphics:mask_graphics_171,x:268.2499,y:235.7253}).wait(1).to({graphics:mask_graphics_172,x:268.2499,y:235.7253}).wait(1).to({graphics:mask_graphics_173,x:268.2499,y:235.7253}).wait(1).to({graphics:mask_graphics_174,x:268.2499,y:235.7253}).wait(1).to({graphics:mask_graphics_175,x:268.2499,y:235.7253}).wait(1).to({graphics:mask_graphics_176,x:268.2499,y:235.7253}).wait(1).to({graphics:mask_graphics_177,x:268.2499,y:235.7253}).wait(1).to({graphics:mask_graphics_178,x:268.2499,y:235.7253}).wait(1).to({graphics:mask_graphics_179,x:268.2499,y:235.7253}).wait(1).to({graphics:mask_graphics_180,x:268.2499,y:235.7253}).wait(1).to({graphics:mask_graphics_181,x:268.2499,y:235.7253}).wait(1).to({graphics:mask_graphics_182,x:268.2499,y:235.7253}).wait(1).to({graphics:mask_graphics_183,x:268.2499,y:235.7253}).wait(1).to({graphics:mask_graphics_184,x:268.2499,y:235.7253}).wait(1).to({graphics:mask_graphics_185,x:268.2499,y:235.7253}).wait(1).to({graphics:mask_graphics_186,x:268.2499,y:235.7253}).wait(1).to({graphics:mask_graphics_187,x:268.2499,y:235.7253}).wait(1).to({graphics:mask_graphics_188,x:268.2499,y:235.7253}).wait(1).to({graphics:mask_graphics_189,x:268.2499,y:235.7253}).wait(1).to({graphics:mask_graphics_190,x:268.2499,y:235.7253}).wait(1).to({graphics:mask_graphics_191,x:268.2499,y:235.7253}).wait(1).to({graphics:mask_graphics_192,x:268.2499,y:235.7253}).wait(1).to({graphics:mask_graphics_193,x:268.2499,y:235.7253}).wait(1).to({graphics:mask_graphics_194,x:268.2499,y:235.7253}).wait(1).to({graphics:mask_graphics_195,x:268.2499,y:235.7253}).wait(1).to({graphics:mask_graphics_196,x:268.2499,y:235.7253}).wait(1).to({graphics:mask_graphics_197,x:268.2499,y:235.7253}).wait(1).to({graphics:mask_graphics_198,x:268.2499,y:235.7253}).wait(1).to({graphics:mask_graphics_199,x:268.2499,y:235.7253}).wait(1).to({graphics:mask_graphics_200,x:268.2499,y:235.7253}).wait(1).to({graphics:mask_graphics_201,x:268.2499,y:235.7253}).wait(1).to({graphics:mask_graphics_202,x:268.2499,y:235.7253}).wait(1).to({graphics:mask_graphics_203,x:268.2499,y:235.7253}).wait(1).to({graphics:mask_graphics_204,x:268.2499,y:235.7253}).wait(1).to({graphics:mask_graphics_205,x:268.2499,y:235.7253}).wait(1).to({graphics:mask_graphics_206,x:268.2499,y:235.7253}).wait(1).to({graphics:mask_graphics_207,x:268.2499,y:235.7253}).wait(1).to({graphics:mask_graphics_208,x:268.2499,y:235.7253}).wait(1).to({graphics:mask_graphics_209,x:268.2499,y:235.7253}).wait(1).to({graphics:mask_graphics_210,x:268.2499,y:235.7253}).wait(1).to({graphics:mask_graphics_211,x:268.2499,y:235.7253}).wait(1).to({graphics:mask_graphics_212,x:268.2499,y:235.7253}).wait(1).to({graphics:mask_graphics_213,x:268.2499,y:235.7253}).wait(1).to({graphics:mask_graphics_214,x:268.2499,y:235.7253}).wait(1));
 
 	// Logo
-	this.instance_4 = new lib.everydaythings_logosvg("synched",0);
-	this.instance_4.parent = this;
-	this.instance_4.setTransform(100.05,77.05,1,1,0,0,0,78.8,31.8);
+	this.instance_5 = new lib.everydaythings_logosvg("synched",0);
+	this.instance_5.parent = this;
+	this.instance_5.setTransform(100.05,77.05,1,1,0,0,0,78.8,31.8);
 
-	var maskedShapeInstanceList = [this.instance_4];
+	var maskedShapeInstanceList = [this.instance_5];
 
 	for(var shapedInstanceItr = 0; shapedInstanceItr < maskedShapeInstanceList.length; shapedInstanceItr++) {
 		maskedShapeInstanceList[shapedInstanceItr].mask = mask;
 	}
 
-	this.timeline.addTween(cjs.Tween.get(this.instance_4).wait(80));
+	this.timeline.addTween(cjs.Tween.get(this.instance_5).wait(215));
 
 	// Counter
-	this.instance_5 = new lib.counter_top();
-	this.instance_5.parent = this;
+	this.instance_6 = new lib.counter_top();
+	this.instance_6.parent = this;
 
-	this.timeline.addTween(cjs.Tween.get(this.instance_5).wait(80));
+	this.timeline.addTween(cjs.Tween.get(this.instance_6).wait(215));
 
 }).prototype = p = new cjs.MovieClip();
 p.nominalBounds = new cjs.Rectangle(-203.9,-154.4,1272.5,729.1);
@@ -594,7 +791,7 @@ lib.properties = {
 	color: "#FFFFFF",
 	opacity: 1.00,
 	manifest: [
-		{src:"images/everydaythings_atlas_.png?1589054633254", id:"everydaythings_atlas_"}
+		{src:"images/everydaythings_atlas_.png?1589057807092", id:"everydaythings_atlas_"}
 	],
 	preloads: []
 };

diff --git a/everydaythings.html b/everydaythings.html
@@ -14,7 +14,7 @@
 <title>everydaythings</title>
 <!-- write your code here -->
 <script src="https://code.createjs.com/createjs-2015.11.26.min.js"></script>
-<script src="everydaythings.js?1589054633283"></script>
+<script src="everydaythings.js?1589057807129"></script>
 <script>
 var canvas, stage, exportRoot, anim_container, dom_overlay_container, fnStartAnimation;
 function init() {
